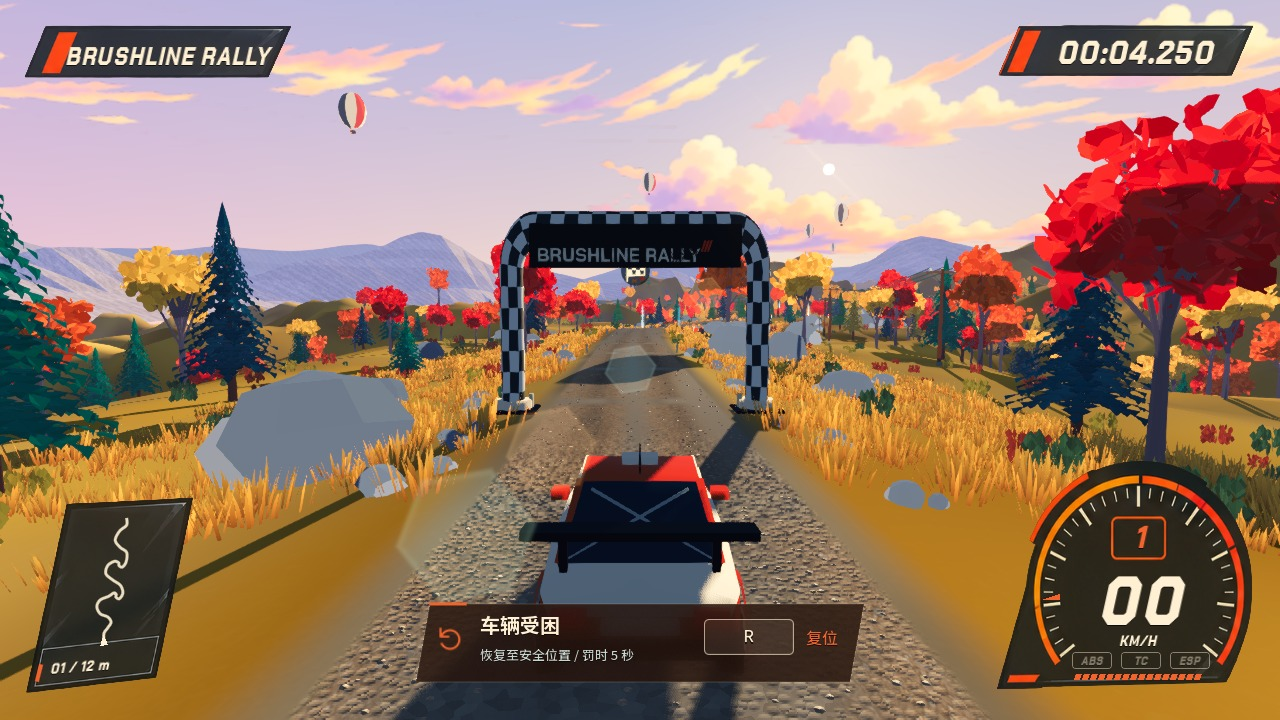
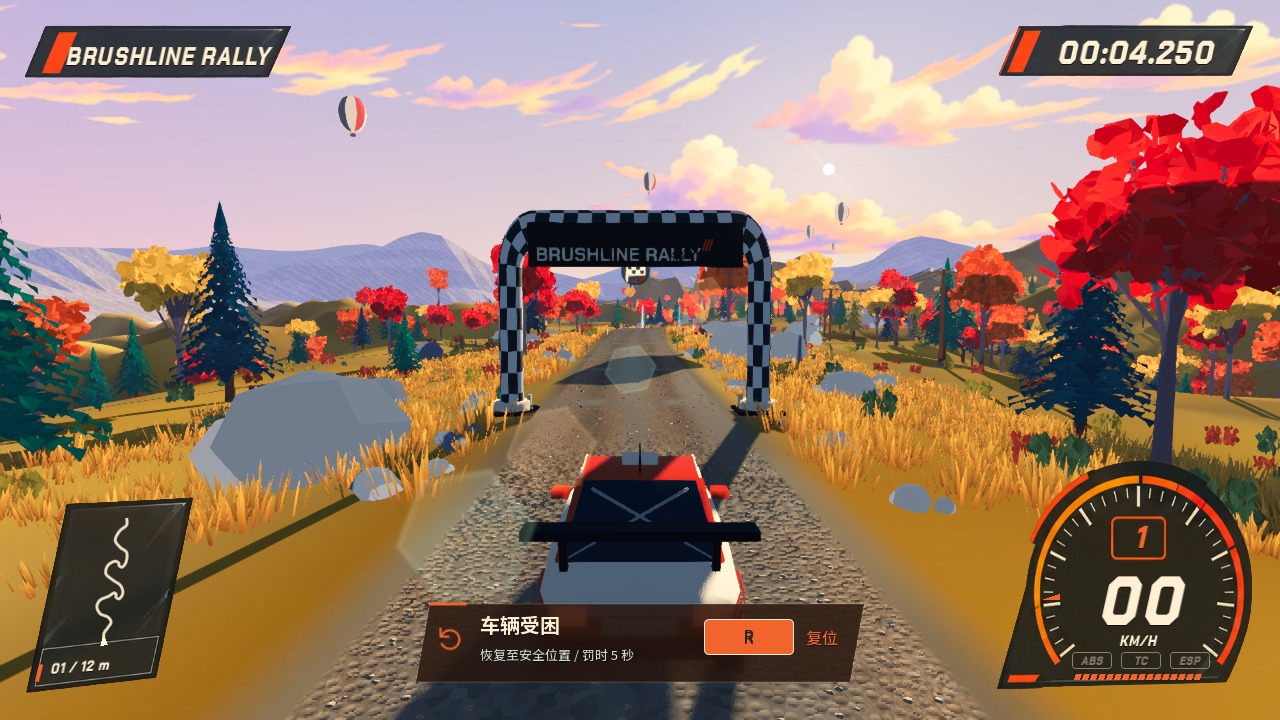
fix: highlight the reset key in driving hints

diff --git a/docs/validation/recovery-hints/README.md b/docs/validation/recovery-hints/README.md
@@ -51,3 +51,9 @@ godot --path . --max-fps 60 --script res://scripts/dev/recovery_hint_capture.gd 
 ```
 
 截图脚本直接启动测试赛道，不读取或写入玩家档案。资源与测试通过后，按项目约定提交、推送及快进同步常用工程目录。
+
+## 复位键高亮补充（2026-10-22）
+
+底部按键栏和受困卡片的复位键采用橙色实底、深色字与暖白边框，底栏“复位”文字同步橙色强调。样式跟随复位动作，重绑键名和手柄 Y 同样高亮。
+
+本次 [HUD 回归](highlight-hud.log) 34 项通过；[原生截图](highlight-capture.log) 已刷新上述四种布局，日志无脚本或资源错误。
